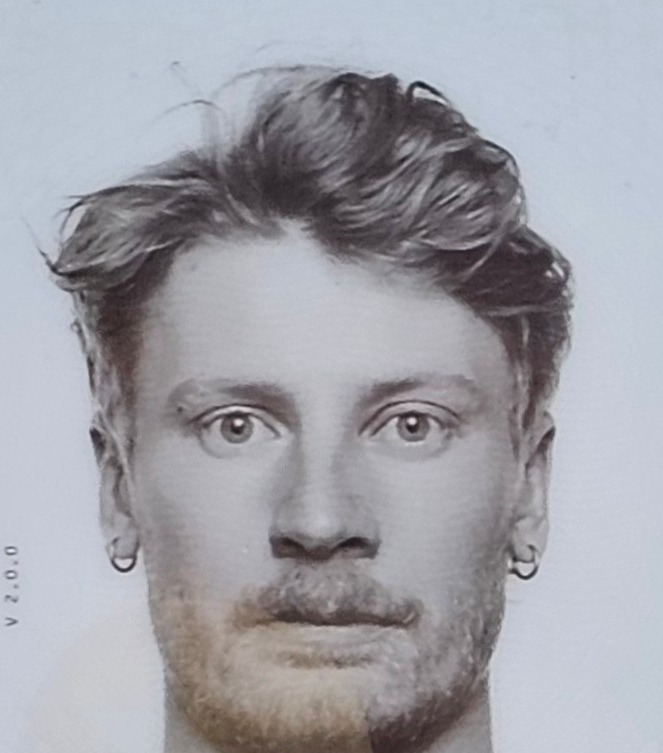
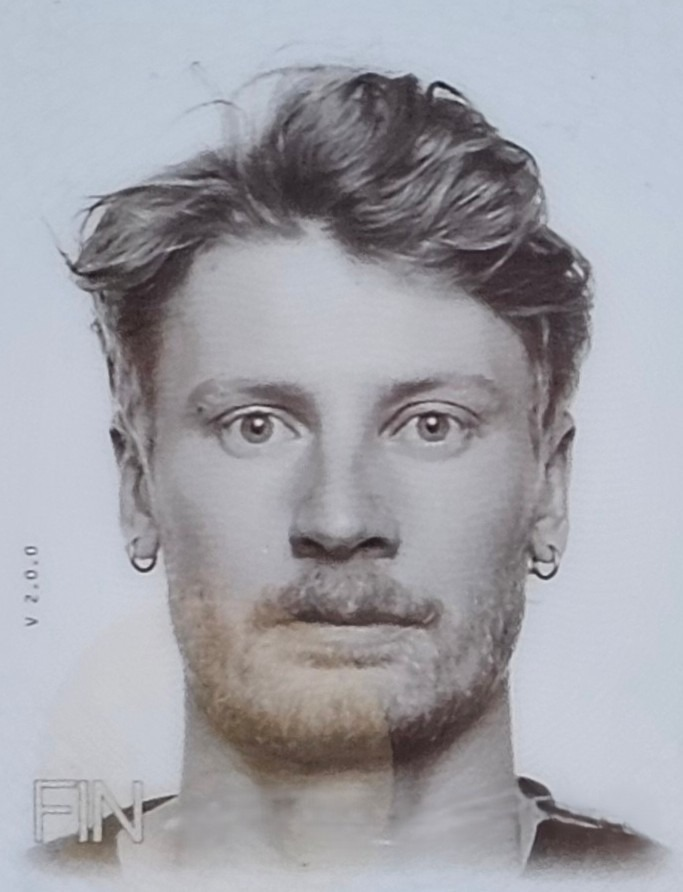
Refine profile photo and title styling per feedback
- Swapped in the cleaned profile photo (private info removed in
  Photoshop by the user), used as provided with no further cropping
- About-page portrait: larger (160px) and shown straight, no rotation
- Headings, site brand and the lightbox caption title are no longer
  bold — kept uppercase/monospace, just lighter weight

diff --git a/docs/css/style.css b/docs/css/style.css
@@ -44,7 +44,7 @@ a:focus-visible, button:focus-visible { outline: 2px solid var(--accent-hi); out
 
 h1, h2, h3 {
   font-family: var(--mono-font);
-  font-weight: 700;
+  font-weight: 400;
   color: var(--fg);
   text-transform: uppercase;
   letter-spacing: 0.06em;
@@ -105,7 +105,7 @@ h3 { font-size: 1.1rem; margin-top: 0; }
 
 .brand {
   font-family: var(--mono-font);
-  font-weight: 700;
+  font-weight: 400;
   font-size: 1.15rem;
   color: var(--fg);
   text-decoration: none;
@@ -147,12 +147,11 @@ h3 { font-size: 1.1rem; margin-top: 0; }
 /* small, centered, slightly askew — a postage-stamp feel */
 .about-stamp {
   display: block;
-  width: 110px;
+  width: 160px;
   margin: 2.2rem auto 2.4rem;
   border: 6px solid var(--surface);
   outline: 1px solid var(--border);
   outline-offset: -1px;
-  transform: rotate(-4deg);
   box-shadow: 0 3px 10px rgba(0, 0, 0, 0.45);
 }
 .intro-text h1 { margin-top: 0; }
@@ -290,7 +289,7 @@ body:has(main > h1:only-child) main { text-align: left; }
   margin-top: 0.9rem;
   font-size: 0.9rem;
 }
-.lightbox-caption .lightbox-title { font-family: var(--mono-font); font-weight: bold; text-transform: uppercase; letter-spacing: 0.04em; font-size: 1.1rem; display: block; }
+.lightbox-caption .lightbox-title { font-family: var(--mono-font); font-weight: 400; text-transform: uppercase; letter-spacing: 0.04em; font-size: 1.1rem; display: block; }
 
 .lightbox-controls {
   position: absolute;

diff --git a/docs/about.html b/docs/about.html
@@ -28,7 +28,7 @@
 
 <main id="main">
 <h1>About</h1>
-<img class="about-stamp" src="img/profile.jpg" alt="Portrait of Roni Luokkamäki" width="110" height="140" loading="lazy">
+<img class="about-stamp" src="img/profile.jpg" alt="Portrait of Roni Luokkamäki" width="160" height="209" loading="lazy">
 <p class="muted">
   <em>[About text goes here.]</em>
 </p>

diff --git a/content/about.html b/content/about.html
@@ -1,5 +1,5 @@
 <h1>About</h1>
-<img class="about-stamp" src="img/profile.jpg" alt="Portrait of Roni Luokkamäki" width="110" height="140" loading="lazy">
+<img class="about-stamp" src="img/profile.jpg" alt="Portrait of Roni Luokkamäki" width="160" height="209" loading="lazy">
 <p class="muted">
   <em>[About text goes here.]</em>
 </p>
